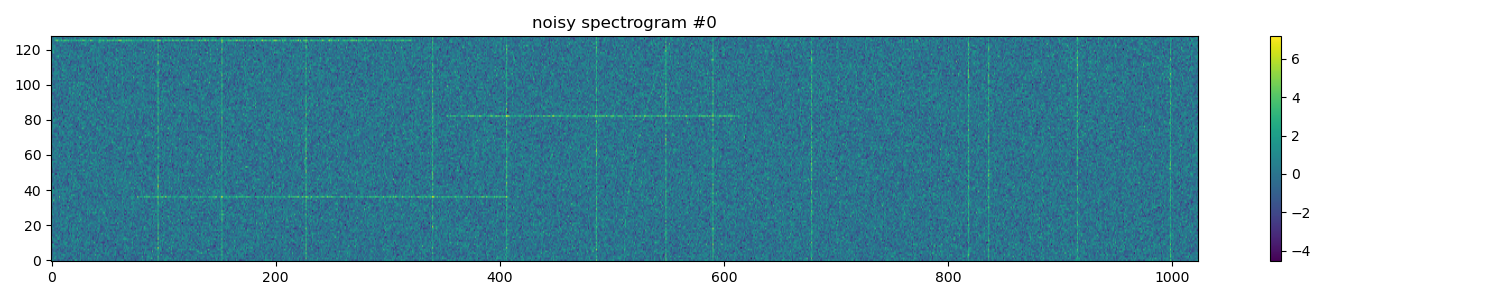
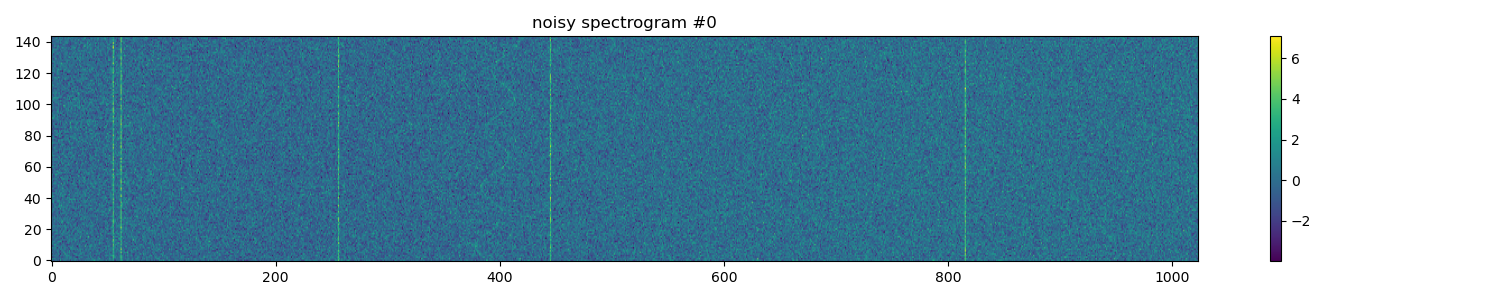
Enhance data sim process, match FILTERBANK data

Changed region(s): [[0.0, 0.12, 0.7973, 0.87], [0.8587, 0.69, 0.8893, 0.75], [0.8587, 0.45, 0.8893, 0.48]]

diff --git a/gen/SETIdataset.py b/gen/SETIdataset.py
@@ -11,7 +11,7 @@ from gen.SETIgen import sim_dynamic_spec_seti
 class DynamicSpectrumDataset(Dataset):
     def __init__(self,
                  tchans=224, fchans=224, df=1.0, dt=1.0, fch1=None, ascending=False,
-                 drift_min=-2.0, drift_max=2.0,
+                 drift_min=-2.0, drift_max=2.0, drift_min_abs=0.2,
                  snr_min=10.0, snr_max=30.0,
                  width_min=1.0, width_max=5.0,
                  num_signals=(0, 1),
@@ -22,6 +22,7 @@ class DynamicSpectrumDataset(Dataset):
         参数:
             tchans, fchans, df, dt, fch1, ascending: 与动态频谱函数对应的频谱尺寸参数
             drift_min, drift_max: 漂移率范围 (Hz/s)
+            drift_min_abs: 最小绝对漂移率 (Hz/s)，确保信号漂移率绝对值不低于此值
             snr_min, snr_max: 信噪比范围
             width_min, width_max: 频谱宽度范围 (Hz)
             num_signals: 信号个数范围 (min, max)
@@ -35,6 +36,7 @@ class DynamicSpectrumDataset(Dataset):
         self.ascending = ascending
         self.drift_min = drift_min
         self.drift_max = drift_max
+        self.drift_min_abs = drift_min_abs
         self.snr_min = snr_min
         self.snr_max = snr_max
         self.width_min = width_min
@@ -72,7 +74,11 @@ class DynamicSpectrumDataset(Dataset):
                                        weights=[0.35, 0.2, 0.35, 0.1])[0]
             # 默认信号参数
             margin = int(0.2 * self.fchans)
-            drift_rate = random.uniform(self.drift_min, self.drift_max)
+            # 随机漂移率，确保绝对值不低于 drift_min_abs
+            while True:
+                drift_rate = random.uniform(self.drift_min, self.drift_max)
+                if abs(drift_rate) >= self.drift_min_abs:
+                    break
             if drift_rate < 0:
                 f_index = self.fchans // 2 + np.random.randint(0, self.fchans // 2 - margin)
             else:
@@ -91,20 +97,17 @@ class DynamicSpectrumDataset(Dataset):
                 'path': path_type,
                 't_profile': random.choices(
                     ['pulse', 'sine', 'constant'], weights=[0.25, 0.25, 0.5], k=1)[0],
-                # 't_profile': 'constant',
-                'f_profile':
-                    random.choices(['gaussian', 'box', 'sinc', 'lorentzian', 'voigt'],
-                                   weights=[0.3, 0.2, 0.2, 0.15, 0.15],
-                                   k=1)[0],
+                'f_profile': random.choices(
+                    ['gaussian', 'box', 'sinc', 'lorentzian', 'voigt'],
+                    weights=[0.3, 0.2, 0.2, 0.15, 0.15],
+                    k=1)[0],
                 # rfi 相关参数
                 'rfi_type': random.choice(['stationary', 'random_walk']),
                 'spread_type': random.choice(['uniform', 'normal']),
                 'spread': random.choices(
                     [0.005, 0.01, 0.02, 0.05, 0.1, 0.2, 0.5, 1.0, 2.0, 5.0, 7.5, 10.0, 15.0, 20.0, 25.0]),
                 # sine 相关参数
-                # squared 相关参数
                 'squared_drift': drift_rate * 5.e-4
-
             }
 
             # 路径类型特定参数
@@ -131,7 +134,13 @@ class DynamicSpectrumDataset(Dataset):
             'NBT': np.random.randint(max(1, self.tchans // 128), self.tchans // 64),
             'NBT_amp': np.random.uniform(2.5, 5),
             'BBT': np.random.randint(max(1, self.fchans // 512), self.fchans // 256),
-            'BBT_amp': np.random.uniform(1.25, 5)
+            'BBT_amp': np.random.uniform(1.25, 5),
+            'LowDrift': np.random.randint(1, 6),
+            'LowDrift_amp': np.random.uniform(1.25, 5),
+            'LowDrift_width': np.random.uniform(7.5, 15),
+            'NegBand': np.random.randint(1, 2),
+            'NegBand_amp': np.random.uniform(0.25, 0.75),
+            'NegBand_width': np.random.uniform(0.3e6, 0.7e6)
         }
 
         # 生成动态频谱样本
@@ -219,13 +228,17 @@ def plot_samples(dataset, kind='clean', num=10, out_dir=None):
 
 
 if __name__ == "__main__":
-    dataset = DynamicSpectrumDataset(tchans=128, fchans=1024, df=7.5, dt=10.0, fch1=None, ascending=False,
-                                     drift_min=-1.0, drift_max=1.0,
-                                     snr_min=10.0, snr_max=20.0,
-                                     width_min=5, width_max=7.5,
-                                     num_signals=(1, 1),
-                                     noise_std_min=0.05, noise_std_max=0.1
-                                     )
+    tchans = 144
+    fchans = 1024
+    df = 7.5
+    dt = 1.0
+    drift_min = -4.0
+    drift_max = 4.0
+    drift_min_abs = df // (tchans * dt)
+    dataset = DynamicSpectrumDataset(tchans=tchans, fchans=fchans, df=df, dt=dt, fch1=None, ascending=False,
+                                     drift_min=drift_min, drift_max=drift_max, drift_min_abs=0.2,
+                                     snr_min=10.0, snr_max=20.0, width_min=10, width_max=15, num_signals=(1, 1),
+                                     noise_std_min=0.025, noise_std_max=0.05)
 
     """
     参数生成 Refs:
@@ -240,6 +253,6 @@ if __name__ == "__main__":
         from arXiv:2502.20419v1 [astro-ph.IM] 27 Feb 2025
     """
 
-    plot_samples(dataset, kind='clean', num=10)
-    # plot_samples(dataset, kind='noisy', num=10)
-    # plot_samples(dataset, kind='mask', num=10)
+    plot_samples(dataset, kind='clean', num=30)
+    plot_samples(dataset, kind='noisy', num=30)
+    plot_samples(dataset, kind='mask', num=30)

diff --git a/gen/SETIgen.py b/gen/SETIgen.py
@@ -13,7 +13,6 @@ except:
 import matplotlib.pyplot as plt
 from gen.FRIgen import add_rfi
 
-
 def sim_dynamic_spec_seti(fchans, tchans, df, dt, fch1=None, ascending=False,
                           signals=None,
                           noise_x_mean=0.0, noise_x_std=1.0, noise_type='normal',
@@ -80,12 +79,19 @@ def sim_dynamic_spec_seti(fchans, tchans, df, dt, fch1=None, ascending=False,
                 - 'NBT_amp': 窄带瞬态RFI幅度倍数
                 - 'BBT': 宽带瞬态RFI数量
                 - 'BBT_amp': 宽带瞬态RFI幅度倍数
+                - 'LowDrift': 低漂移率RFI数量
+                - 'LowDrift_amp': 低漂移率RFI幅度倍数
+                - 'LowDrift_width': 低漂移率RFI宽度(Hz)
+                - 'NegBand': 负高斯轮廓数量
+                - 'NegBand_amp': 负高斯轮廓幅度倍数
+                - 'NegBand_width': 负高斯轮廓宽度(Hz)
 
             seed (int, optional): 随机数生成器种子（保证结果可重现）
             plot (bool): 是否生成可视化图像（默认False）
             plot_filename (str, optional): 图像保存路径（若提供则保存）
 
         返回:
+            signal_spec (numpy.ndarray): 含信号和噪声的动态频谱，形状为(tchans, fchans)
             clean_spec (numpy.ndarray): 纯净动态频谱（不含RFI和噪声），形状为(tchans, fchans)
             noisy_spec (numpy.ndarray): 含RFI和噪声的动态频谱，形状为(tchans, fchans)
             rfi_mask (numpy.ndarray): RFI位置布尔掩码，形状为(tchans, fchans)
@@ -107,7 +113,7 @@ def sim_dynamic_spec_seti(fchans, tchans, df, dt, fch1=None, ascending=False,
                     'l_width': 2.0
                 }
             ]
-        """
+    """
     # 固定随机种子
     if seed is not None:
         np.random.seed(seed)
@@ -212,11 +218,45 @@ def sim_dynamic_spec_seti(fchans, tchans, df, dt, fch1=None, ascending=False,
             bp_profile = stg.constant_bp_profile(level=1.0)
             clean_spec += frame.add_signal(path, t_profile, f_profile, bp_profile)
 
+    # 初始化 RFI 掩码
+    rfi_mask = np.zeros_like(frame.data, dtype=bool)
+
+    # 添加低漂移率 RFI（使用 setigen，constant 类型）
+    if rfi_params:
+        for _ in range(rfi_params.get('LowDrift', 0)):
+            f_index = np.random.randint(0, fchans)
+            f_start = frame.get_frequency(f_index)
+            drift_rate = np.random.uniform(-0.0001, 0.0001) * u.Hz / u.s
+            path = stg.constant_path(f_start=f_start, drift_rate=drift_rate)
+            level = rfi_params.get('LowDrift_amp', 5.0) * noise_x_std
+            t_profile = stg.constant_t_profile(level=level)
+            width = rfi_params.get('LowDrift_width', 2.0) * u.Hz
+            f_profile = stg.gaussian_f_profile(width=width)
+            bp_profile = stg.constant_bp_profile(1.0)
+            added_signal = frame.add_signal(path, t_profile, f_profile, bp_profile)
+            rfi_mask |= (added_signal > 0.1 * level)
+
+        # 添加负噪声带（负高斯轮廓），但不更新 RFI 掩码
+        for _ in range(rfi_params.get('NegBand', 0)):
+            f_index = np.random.randint(0, fchans)
+            f_start = frame.get_frequency(f_index)
+            drift_rate = 0 * u.Hz / u.s
+            path = stg.constant_path(f_start=f_start, drift_rate=drift_rate)
+            amp = rfi_params.get('NegBand_amp', 0.5)
+            level = -amp * noise_x_std
+            t_profile = stg.constant_t_profile(level=level)
+            width_hz = rfi_params.get('NegBand_width', 0.5e6)
+            width = min(width_hz, fchans * df.to(u.Hz).value / 2) * u.Hz  # 限制不超过总带宽的一半
+            f_profile = stg.gaussian_f_profile(width=width)
+            bp_profile = stg.constant_bp_profile(1.0)
+            added_signal = frame.add_signal(path, t_profile, f_profile, bp_profile)
+
     signal_spec = frame.get_data(db=False)
 
-    # 注入 RFI
+    # 注入传统 RFI
     if rfi_params:
-        noisy_spec, rfi_mask = add_rfi(signal_spec, rfi_params, noise_std=noise_x_std)
+        noisy_spec, traditional_rfi_mask = add_rfi(signal_spec, rfi_params)
+        rfi_mask |= traditional_rfi_mask
     else:
         noisy_spec = signal_spec.copy()
         rfi_mask = np.zeros_like(signal_spec, dtype=bool)
@@ -256,7 +296,6 @@ def sim_dynamic_spec_seti(fchans, tchans, df, dt, fch1=None, ascending=False,
             plt.savefig(out_path, dpi=480)
             print(f"Plot saved to {out_path}")
     return signal_spec, clean_spec, noisy_spec, rfi_mask
-
 
 if __name__ == "__main__":
     import os
@@ -303,7 +342,13 @@ if __name__ == "__main__":
         'NBT': np.random.randint(10, 30),  # 窄带瞬态RFI
         'NBT_amp': np.random.uniform(1, 5),
         'BBT': np.random.randint(5, 15),  # 宽带瞬态RFI
-        'BBT_amp': np.random.uniform(1, 5)
+        'BBT_amp': np.random.uniform(1, 5),
+        'LowDrift': np.random.randint(1, 6),
+        'LowDrift_amp': np.random.uniform(1.25, 5),
+        'LowDrift_width': np.random.uniform(7.5, 15),
+        'NegBand': np.random.randint(1, 2),
+        'NegBand_amp': np.random.uniform(0.25, 0.75),
+        'NegBand_width': np.random.uniform(0.3e6, 0.7e6)
     }
 
     sim_dynamic_spec_seti(

diff --git a/main.py b/main.py
@@ -60,15 +60,15 @@ def main():
     train_dataset = DynamicSpectrumDataset(tchans=144, fchans=1024, df=7.5, dt=1.0, fch1=None, ascending=False,
                                            drift_min=-1.0, drift_max=1.0,
                                            snr_min=10.0, snr_max=20.0,
-                                           width_min=5, width_max=7.5,
+                                           width_min=10, width_max=15,
                                            num_signals=(0, 1),
-                                           noise_std_min=0.05, noise_std_max=0.1)
+                                           noise_std_min=0.025, noise_std_max=0.5)
     valid_dataset = DynamicSpectrumDataset(tchans=144, fchans=1024, df=7.5, dt=1.0, fch1=None, ascending=False,
                                            drift_min=-1.0, drift_max=1.0,
                                            snr_min=10.0, snr_max=20.0,
-                                           width_min=5, width_max=7.5,
+                                           width_min=10, width_max=15,
                                            num_signals=(0, 1),
-                                           noise_std_min=0.05, noise_std_max=0.1)
+                                           noise_std_min=0.025, noise_std_max=0.5)
 
     # Create data loaders
     train_dataloader = DataLoader(

diff --git a/pipeline/patch_engine.py b/pipeline/patch_engine.py
@@ -163,7 +163,7 @@ if __name__ == "__main__":
         file_path="../data/BLIS692NS/BLIS692NS_data/spliced_blc00010203040506o7o0111213141516o7o0212223242526o7o031323334353637_guppi_58060_26569_HIP17147_0021.gpuspec.0002.fil",
         # Replace with actual file path
         patch_t=144,
-        patch_f=32768,
+        patch_f=1024,
         overlap_pct=0.02
     )
 

diff --git a/gen/FRIgen.py b/gen/FRIgen.py
@@ -1,6 +1,7 @@
 import numpy as np
 
-def add_rfi(clean_spec, rfi_params, noise_std = 0.0):
+
+def add_rfi(clean_spec, rfi_params, noise_std=0.0):
     """
     Add RFI to the clean spectrum and create an RFI mask.
 
